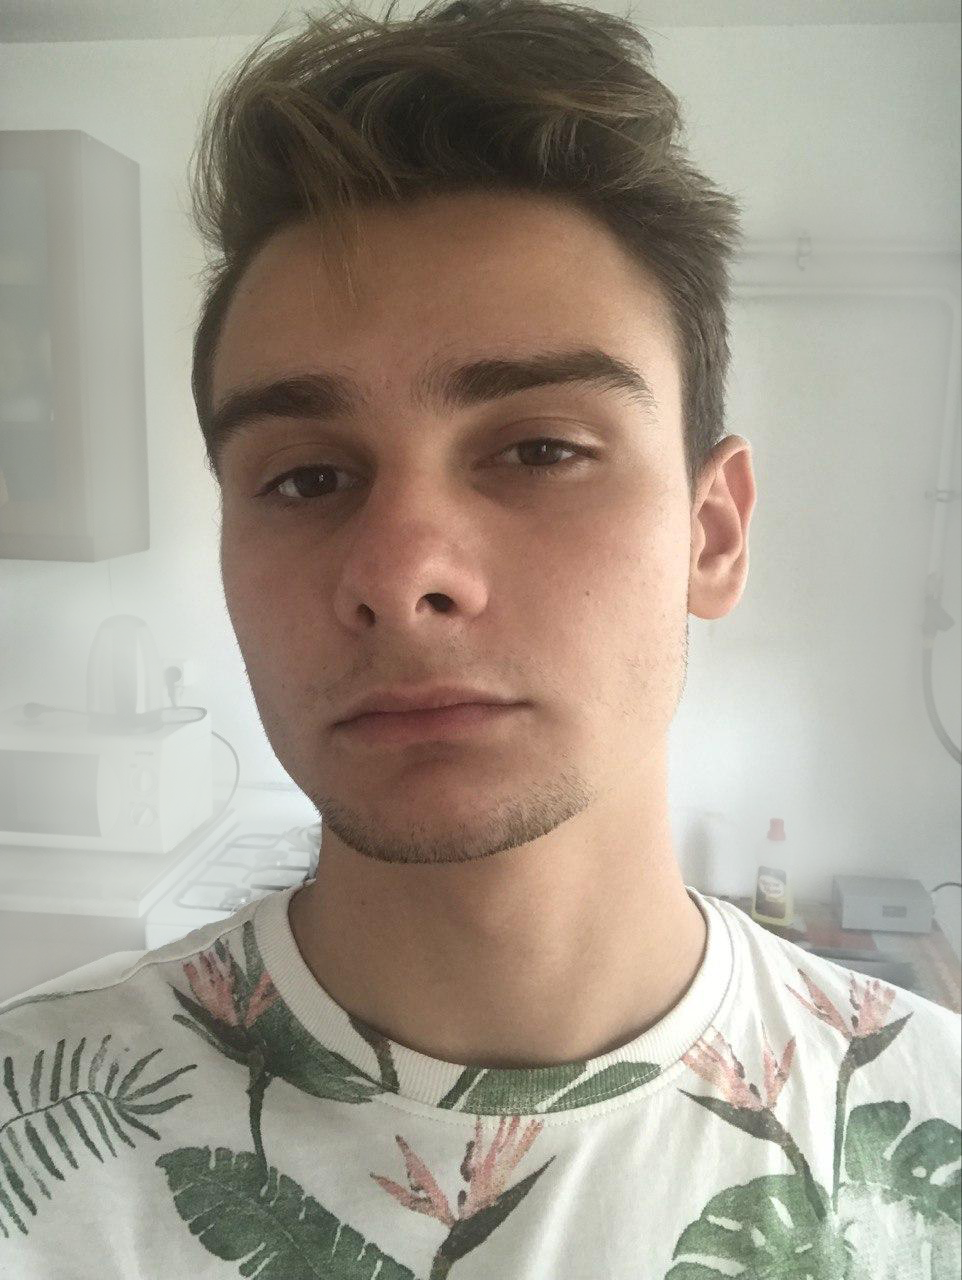
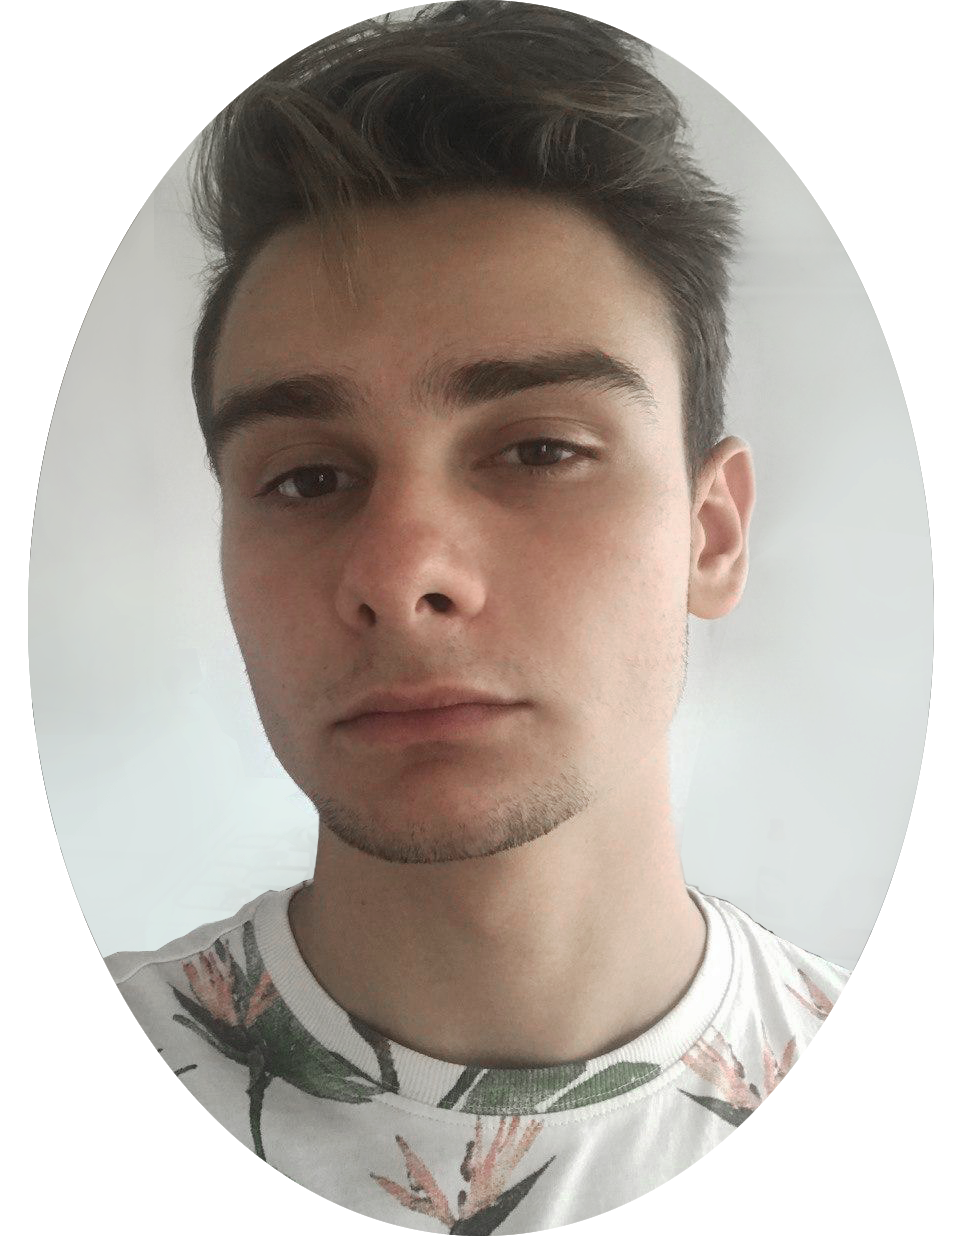
design update

diff --git a/resume.html b/resume.html
@@ -1,46 +1,56 @@
 <!DOCTYPE html>
 <html>
 <head>
-	<title>Лабораторна робота №2</title>
-	<meta charset="utf-8">
+	<!-- Required meta tags -->
+    <meta charset="utf-8">
+    <meta name="viewport" content="width=device-width, initial-scale=1, shrink-to-fit=no">
+    <!-- Bootstrap CSS -->
+    <link rel="stylesheet" href="https://stackpath.bootstrapcdn.com/bootstrap/4.4.1/css/bootstrap.min.css" integrity="sha384-Vkoo8x4CGsO3+Hhxv8T/Q5PaXtkKtu6ug5TOeNV6gBiFeWPGFN9MuhOf23Q9Ifjh" crossorigin="anonymous">
 	<link rel="stylesheet" type="text/css" href="style.css">
+	<title>Резюме</title>
 </head>
 <body>
 	<h1>РЕЗЮМЕ</h1>
-	<div class="image">
-		<img src="images/photo.png" alt="" width="150">
+	<div class="image mx-auto">
 	</div>
 
-	<ol>
+	<ul>
 		<li class="container">
-			<h2 class="itemName">Персональні дані</h2>
-			<ul class="item">
-				<li><span class="highlight">ПІБ:</span> Юрць Тарас Володимирович</li>
-				<li><span class="highlight">Дата народження:</span> 09.08.2000р</li>
-			</ul>
+			<div class="row">
+				<h2 class="itemName col-md-6 my-auto">Персональні дані</h2>
+				<ul class="item col-md-6">
+					<li><span class="highlight">ПІБ:</span> Юрць Тарас Володимирович</li>
+					<li><span class="highlight">Дата народження:</span> 09.08.2000р</li>
+				</ul>
+			</div>
 		</li>
 		
 		<li class="container">
-			<h2 class="itemName">Освіта</h2>
-			<ul class="item">
+			<div class="row">
+			<h2 class="itemName col-md-6 my-auto">Освіта</h2>
+			<ul class="item col-md-6">
 				<li>Прикарпатський національний університет ім. Василя Стефаника, <i>2017-2021рр.</i><br> 
 				<span class="highlight">спеціальність:</span> Комп'ютерні науки
 				</li>
 				<li>Бережанська ЗОШ I-III ступенів №1, <i>2014-2017рр.</i></li>	
 			</ul>
+			</div>
 		</li>	
 		<li class="container">
-			<h2 class="itemName">Досвід роботи</h2>
-			<ul class="item">
+			<div class="row">
+			<h2 class="itemName col-md-6 my-auto">Досвід роботи</h2>
+			<ul class="item col-md-6">
 				<li>Програма для реєстрації студентів</li>
 				<li>Програма для трансліції зображення екрану по UDP протоколу</li>
 				<li>Програма, що відтворює звуки птахів</li>
 			</ul>
+			</div>
 
 		</li>
 		<li class="container">
-			<h2 class="itemName">Професійні навички</h2>	
-			<ul class="item">
+			<div class="row">
+			<h2 class="itemName col-md-6 my-auto">Професійні навички</h2>	
+			<ul class="item col-md-6">
 				<li>
 					<span class="highlight"><b>Знання мов програмування:</b></span>
 					<ul>
@@ -72,14 +82,16 @@
 				</li>
 
 			</ul>
+		</div>
 
 		</li>
 		<li class="container">
-			<h2 class="itemName">Контактна інформація</h2>
-			<ul class="item">
+			<div class="row">
+			<h2 class="itemName col-md-6 my-auto">Контактна інформація</h2>
+			<ul class="item col-md-6">
 				<li><span class="highlight">Email:</span>	yurts.taras@comp-sc.if.ua</li>
 				<li><span class="highlight">Телефон:</span>	+38 099 0395 494</li>
-				<li><span class="highlight">Соціальні мережі:
+				<li><span class="highlight">Соціальні мережі:</span>
 					<a href="https://github.com/TaRiKsLeL">
 						<img src="images/github_logo.png" width="35" alt="">
 					</a>
@@ -90,13 +102,14 @@
 						<img src="images/facebook_logo.png" width="35" alt="">
 					</a>
 				 </li>
-			</ul>	
+			</ul>
+			</div>	
 		</li>
-	</ol>
+	</ul>
 
 	
 	<div align="center" class="container">
-	<h2><span>Форма зворотнього зв'язку</span></h2>
+	<h2><span class="itemName">Форма зворотнього зв'язку</span></h2>
 
 		<form class="form" action="" method="post">
 
@@ -105,12 +118,16 @@
 			<input type="tel" name="tel" placeholder="Телефон"><br>
 			<textarea name="message" placeholder="Повідомлення" rows="3"></textarea><br>
 
-			<input class="submitBtn" type="submit" >
+			<button class="btn btn-outline-dark" type="submit" >Відправити</button>
 		</form>
 	</div>
 
 	<hr>
 	<p class="hyperlink"><a href="table.html">Я вмію створювати таблиці</a></p>
+
+	<script src="https://code.jquery.com/jquery-3.4.1.slim.min.js" integrity="sha384-J6qa4849blE2+poT4WnyKhv5vZF5SrPo0iEjwBvKU7imGFAV0wwj1yYfoRSJoZ+n" crossorigin="anonymous"></script>
+    <script src="https://cdn.jsdelivr.net/npm/popper.js@1.16.0/dist/umd/popper.min.js" integrity="sha384-Q6E9RHvbIyZFJoft+2mJbHaEWldlvI9IOYy5n3zV9zzTtmI3UksdQRVvoxMfooAo" crossorigin="anonymous"></script>
+    <script src="https://stackpath.bootstrapcdn.com/bootstrap/4.4.1/js/bootstrap.min.js" integrity="sha384-wfSDF2E50Y2D1uUdj0O3uMBJnjuUD4Ih7YwaYd1iqfktj0Uod8GCExl3Og8ifwB6" crossorigin="anonymous"></script>
 </body>
 </html>
  

diff --git a/style.css b/style.css
@@ -1,85 +1,78 @@
+@import url('https://fonts.googleapis.com/css2?family=Inter:wght@300;400&display=swap');
+
 body{
 	margin: auto;
-	width: 700px;
+	width: 70%;
 	background-image: url(images/background.png);
 	background-repeat-y: no-repeat; 
 	background-position-y: center; 
 	background-size: 75px;
+	font-family: 'Inter', sans-serif;
+
 }
 
 h1{
+	padding: 10px; 
 	text-align: center;
-	font-family: monospace;
-	font-size: 50px;
 	color: white;
 	background-color: black;
-	border-radius: 30px;
+	border-radius: 15px;
 }
 
 .image{
-	//display: block;
-  	margin-left: auto;
-  	margin-right: auto;
-  	width: 18%;
+	background: url(images/photo.png) no-repeat center center;
+    background-size: 230px;
+    height: 250px;
+    width: 180px;
+    border-radius: 100px;
+	box-shadow: 0 0 10px rgba(0,0,0,0.3);
+	margin: 30px;
 }
 
-.image img{
-	border-radius: 100px;
-	box-shadow: 0 0 10px rgba(0,0,0,0.5);
-}
-
- h1, .container{
+h1, .container{
 	-webkit-box-shadow: 7px 8px 18px -9px rgba(0,255,204,1);
 	-moz-box-shadow: 7px 8px 18px -9px rgba(0,255,204,1);
 	box-shadow: 7px 8px 18px -9px rgba(0,255,204,1);
 }
 
+body>ul {
+	list-style: none;
+	padding: 0;
+}
+
+
 .container {
-	//list-style-position: inside;
+	padding: 15px; 
     background: #b6d0e0;
-    margin: auto;
-    padding: 10px 0px 20px 0px;
     margin-bottom: 20px;
-    border-radius: 35px;
+    border-radius: 15px;
 }
 
 .container .itemName{
-	font: bold italic 110% serif;
-	width: 40%;
-    float: left;
     color: #3e0d3c;
-    font-size: 20px;
     text-align: center;
 }
 .container .item{
-	margin-left: 40%;
-    margin-right: 5%;
-	text-align: left;
     color: #f5e9f7;
-    font-family: monospace;
-    font-size: 18px;
 }
 
 .highlight
 {
-	font-weight: bold;
 	color: white;
 }
 
-.form input{
+.form input,.form textarea{
 	margin-bottom: 20px;
+	border-radius: 12px;
+	border: none;
+	text-align: center;
+}
+.form input,.form textarea,.form button{
+	width: 25%;
+	padding: 5px;
 }
 
-.form textarea{
-	margin-bottom: 20px;
-}
-
-.form .submitBtn{
-	padding: 10px;
-	border-radius: 20px;
-}
-
-.form .submitBtn:hover{
+.form button:hover{
 	background-color: gray;
 }
 
@@ -111,5 +104,3 @@ h1{
 	background-color: #b6d0e0;
 	color: white;
 }
-
-.
